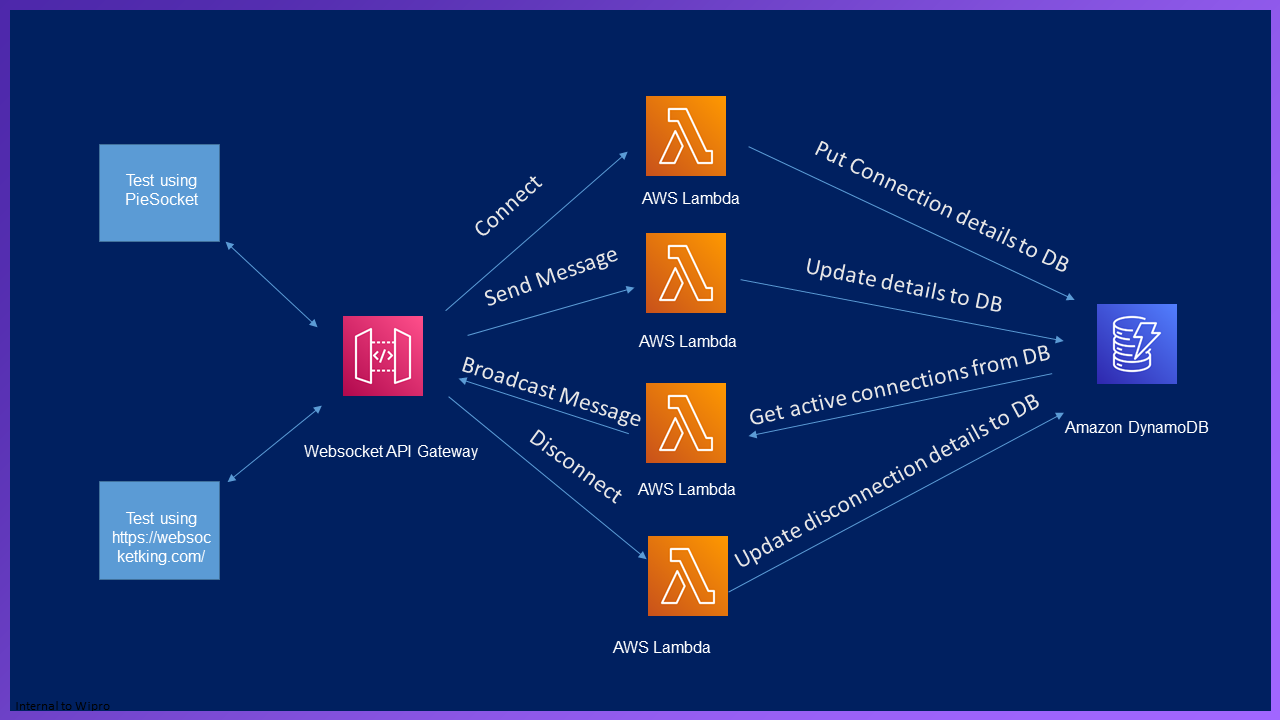
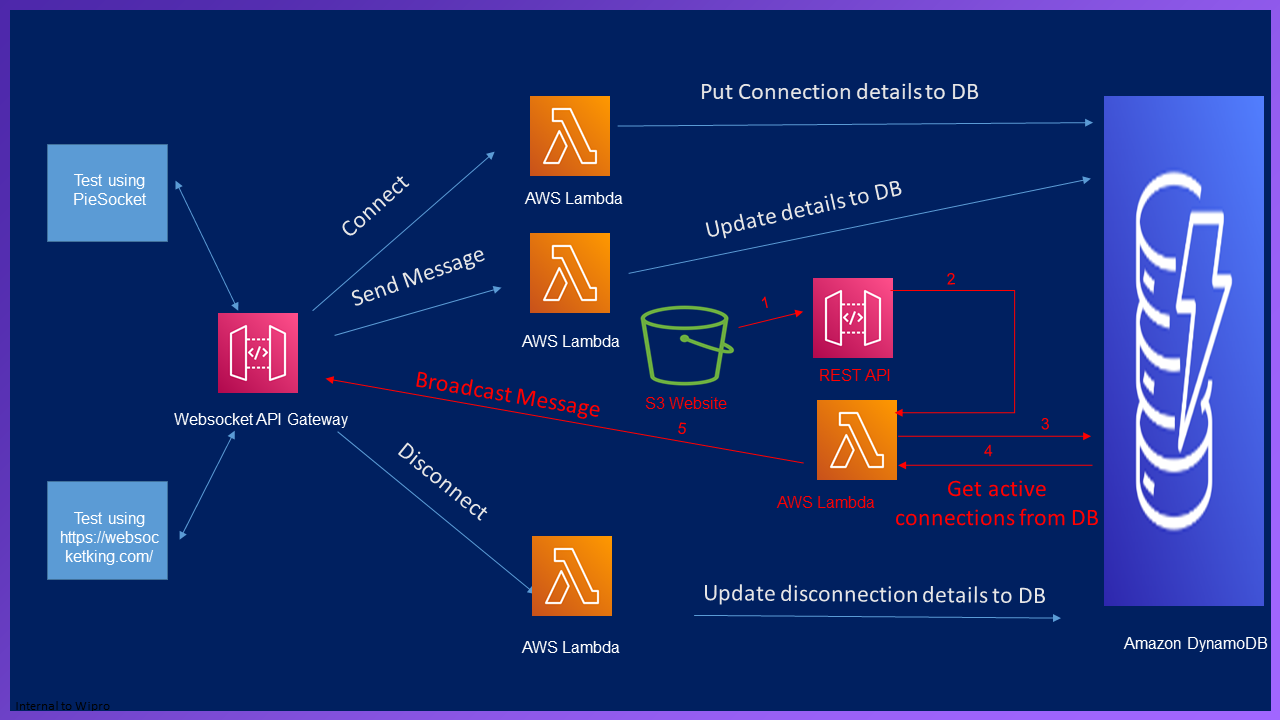
Slide updated

diff --git a/Broadcast.html b/Broadcast.html
@@ -1,0 +1,58 @@
+<!DOCTYPE html>
+<html>
+<head>
+    <meta charset="UTF-8">
+    <title>BroadCast</title>
+    <!-- Add some CSS to change client UI -->
+    <style>
+    //body {
+    //   background-color: #232F3E;
+    //    }
+    label, button {
+        color: #FF9900;
+        font-family: Arial, Helvetica, sans-serif;
+        font-size: 20px;
+        margin-left: 40px;
+        }
+     input {
+        color: #232F3E;
+        font-family: Arial, Helvetica, sans-serif;
+        font-size: 20px;
+        margin-left: 20px;
+        }
+    </style>
+    <script>
+        // define the callAPI function that takes a first name and last name as parameters
+        var callAPI = (Message)=>{
+            // instantiate a headers object
+            var myHeaders = new Headers();
+            // add content type header to object
+            myHeaders.append("Content-Type", "application/json");
+            // using built in JSON utility package turn object to string and store in a variable
+            var raw = JSON.stringify({"Message":Message});
+            // create a JSON object with parameters for API call and store in a variable
+            var requestOptions = {
+                method: 'POST',
+                headers: myHeaders,
+                body: raw,
+                redirect: 'follow'
+            };
+            // make API call with parameters and use promises to get response
+            fetch("https://50opsp1bk2.execute-api.us-east-1.amazonaws.com/dev/broadcastmessage", requestOptions)
+            .then(response => response.text())
+            .then(result => alert(JSON.parse(result).body))
+            .catch(error => console.log('error', error));
+			document.getElementById('Message').value=''
+        }
+    </script>
+</head>
+<body>
+    <form>
+        <label>Message :</label>
+        <input type="text" id="Message">
+		<br></br>
+        <!-- set button onClick method to call function we defined passing input values as parameters -->
+        <button type="button" onclick="callAPI(document.getElementById('Message').value)">Send Message</button>
+    </form>
+</body>
+</html>
